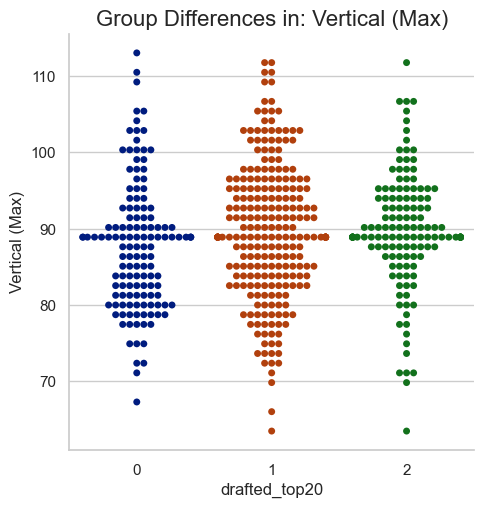
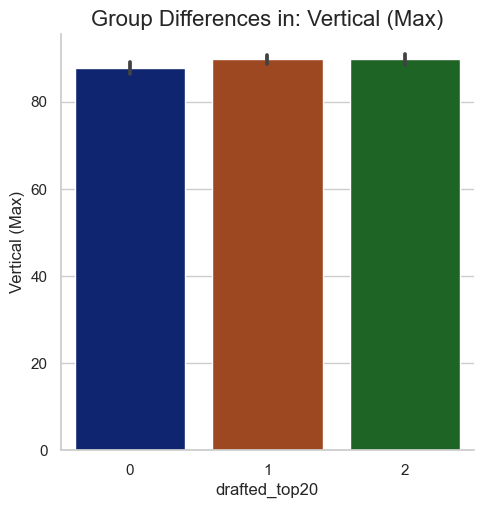
All done

diff --git a/NBA.py b/NBA.py
@@ -8,7 +8,9 @@ from imblearn import under_sampling, over_sampling
 from imblearn.over_sampling import SMOTE
 from sklearn import decomposition
 from sklearn.svm import SVC
-from sklearn.metrics import accuracy_score, confusion_matrix, roc_curve, roc_auc_score
+from sklearn.metrics import accuracy_score, confusion_matrix, roc_curve, roc_auc_score, precision_score, f1_score, \
+    recall_score
+
 # read csv file in
 nba = pd.read_csv(r'c:\users\hp\nba_draft_combine_all_years2.csv')
 
@@ -69,13 +71,14 @@ for n in numeric_figs:
     plt.title('Group Differences in: {}'.format(n), fontsize=16)
     fig2.savefig("./figures//group_differences/{}.png".format(n))
 
-for n in numeric_figs:
-    fig2 = sns.catplot(data=nba, kind="swarm", x="drafted_top20", y=n, palette="dark")
-    plt.title('Group Differences in: {}'.format(n), fontsize=16)
-    fig2.savefig("./figures//group_differences_top20/{}.png".format(n))
+    for n in numeric_figs:
+        fig2 = sns.catplot(data=nba, kind="bar", x="drafted_top20", y=n, palette="dark")
+        plt.title('Group Differences in: {}'.format(n), fontsize=16)
+        fig2.savefig("./figures//group_differences_top20/{}.png".format(n))
 
 # figure out if there is much correlation between variables as some are similar
 cor_mat = nba.corr()
+f, ax = plt.subplots(figsize=(15, 8))
 g = sns.heatmap(cor_mat, linewidths=1)
 plt.show()
 plt.savefig("./figures/correlation/correlation.png")
@@ -88,16 +91,15 @@ for col in numeric_figs:
 nba.drop(columns=['Draft pick', 'Player', 'Year', 'Height (No Shoes)', 'Height (With Shoes)',
                   'Wingspan', 'Standing reach', 'Vertical (Max)', 'Vertical (Max Reach)',
                   'Vertical (No Step)', 'Vertical (No Step Reach)', 'Weight', 'Body Fat',
-                  'Bench', 'Agility', 'Sprint', 'drafted_top10'], inplace=True)
+                  'Bench', 'Agility', 'Sprint', 'drafted_top10', 'drafted_top20'], inplace=True)
 nba.columns
-nba.to_csv('nba_pre_pca.csv')
 
-## SMOTE due to imbalances in prediction variable
+## evaluate a minority, SMOTE, majority of sampling
 # from imblearn import under_sampling, over_sampling
 # from imblearn.over_sampling import SMOTE
 
 xcols = [x for x in list(nba.columns) if x != 'drafted or no' not in x]
-undersample = SMOTE()
+undersample = RandomOverSampler(strategy='minority')
 X = nba[xcols]
 Y = nba[['drafted or no']]
 x_over, y_over = undersample.fit_resample(X, Y)
@@ -128,7 +130,7 @@ print(x_projected)
 x_train, x_test, y_train, y_test = train_test_split(x_projected,y_over, test_size=0.30) #x_projected, x_over
 print((x_train.shape, x_test.shape, y_train.shape, y_test.shape))
 
-grid_params = {'C':[1,10,100,1000],'gamma':[1,0.1,0.001,0.0001], 'kernel':['linear','rbf']}
+grid_params = {'C':[0.001, 0.01, 0.1, 1,10,100,1000],'gamma':[100,10,1,0.1,0.001,0.0001], 'kernel':['linear','rbf', 'polynomial']}
 gs = GridSearchCV(SVC(), grid_params, verbose=2, cv=3, n_jobs=2)
 gs_results = gs.fit(x_train, y_train.values.ravel())
 print("Best parameters set found on development set:")
@@ -149,49 +151,34 @@ print("F1 {}+- {}".format(np.mean(f1), np.std(f1)))
 print("Precision {}+- {}".format(np.mean(precisions), np.std(precisions)))
 print("Recall {}+- {}".format(np.mean(recalls), np.std(recalls)))
 
-# F1 0.93
-# Precision = 0.89
-# Recall = 0.98
 
-from sklearn.metrics import accuracy_score, confusion_matrix, roc_curve, roc_auc_score
+# F1 0.91
+# Precision = 0.83
+# Recall = 1.0
 
+# Create confusion matrix 2x2
 conf_mat = confusion_matrix(y_test, y_pred)
 
 true_pos = conf_mat[0][0]
 false_pos = conf_mat[0][1]
 false_neg = conf_mat[1][0]
 true_neg = conf_mat[1][1]
+print(conf_mat)
 
-# Accuracy
 Accuracy = (true_pos + true_neg) / (true_pos + false_pos + false_neg + true_neg)
-
-# Recall
 Recall = true_pos/(true_pos+false_neg)
-
-# Precision
 Precision = true_pos/(true_pos+false_pos)
-
-# F1 Score
 F1_Score = 2*(Recall * Precision) / (Recall + Precision)
 
 # AUC
 auc = roc_auc_score(y_test, y_pred)
-
-print('Accuracy = ', Accuracy, '\n'
-    'Misclassification = ', 1-Accuracy, '\n',
-      'Sensitivity = ', Recall, '\n',
-      'Specificity = ', true_negative/float(true_negative+false_positive), '\n',
-      'Precision = ', Precision, '\n',
-      'F1 Score = ', F1_Score, '\n',
-      'Area Under Curve = ', auc, '\n',)
-
 # ROC
 fpr, tpr, threshold = roc_curve(y_test, y_pred)
-plt.plot(fpr, tpr, color='black', label='ROC')
-plt.plot([0, 1], [0, 1], color='red', linestyle='--', label='ROC curve (area = %0.3f)' % auc)
+plt.plot(fpr, tpr, color='black', label='ROC (area = %0.3f)' % auc)
+plt.plot([0, 1], [0, 1], color='red', linestyle='--', label='Reference Line')
 plt.xlabel('False Positive Rate (FPR)')
 plt.ylabel('True Positive Rate (TPR)')
 plt.title('Receiver Operating Characteristic (ROC) Curve')
 plt.legend()
-plt.savefig("./figures/ROC/roc_curve.png")
 plt.show()
+plt.savefig("./figures/ROC/roc_curve.png")
